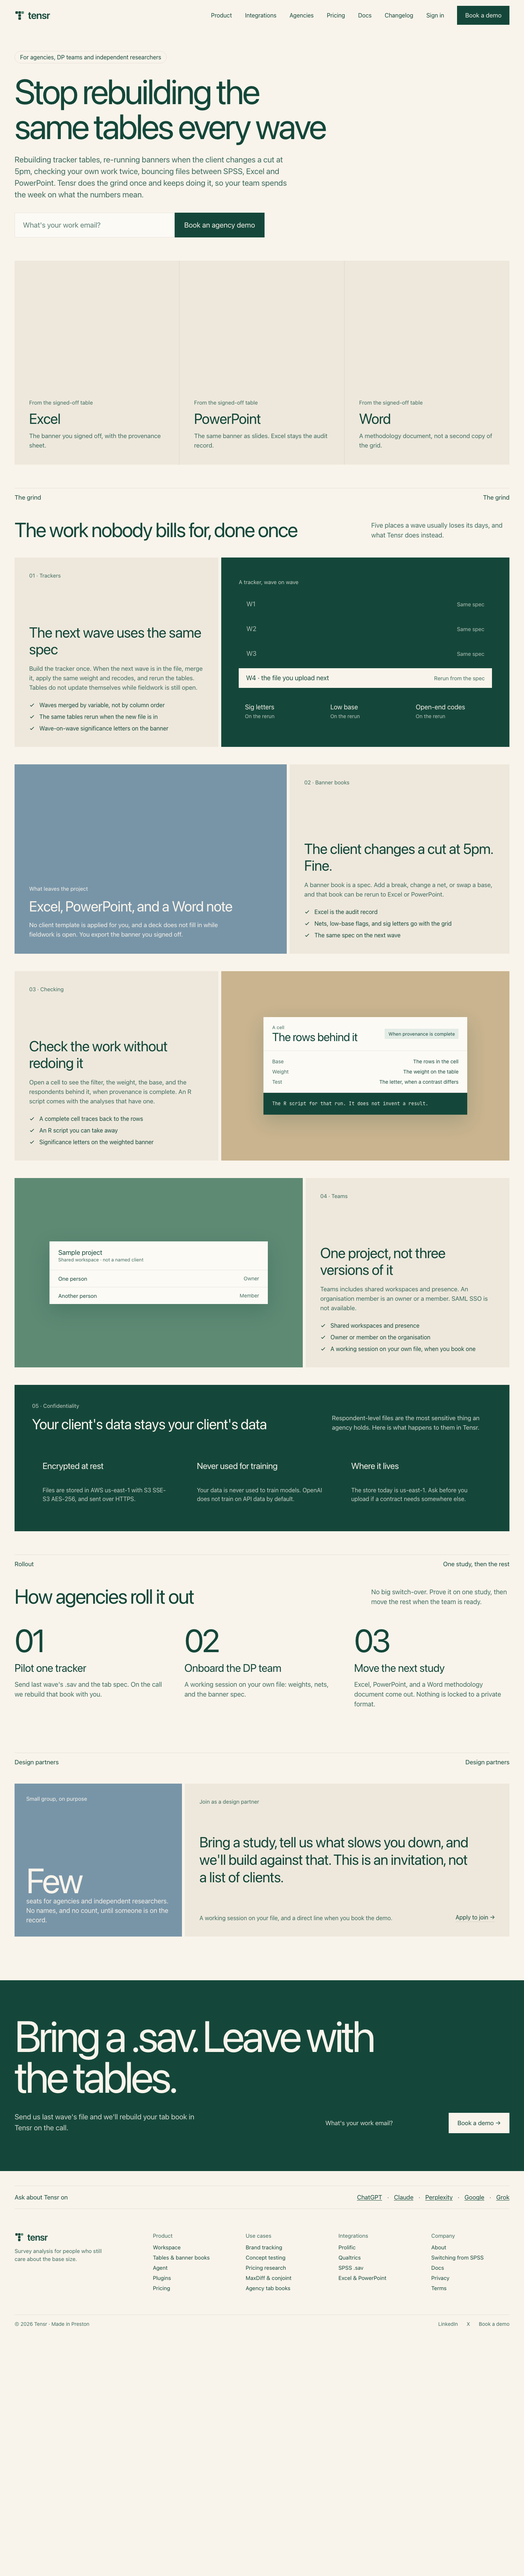
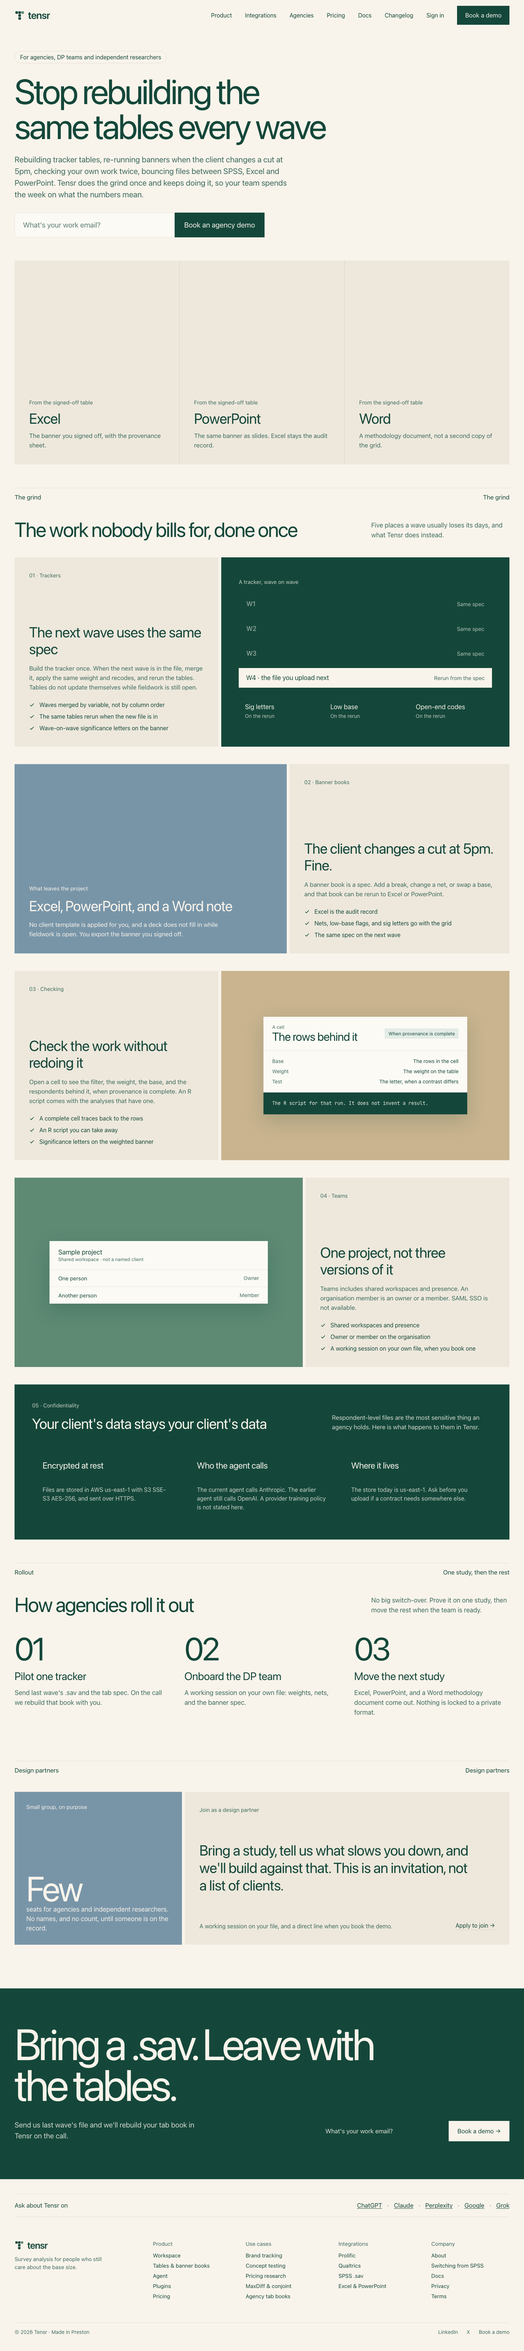
Limit the security page to claims the stack actually supports.

diff --git a/app/security/page.tsx b/app/security/page.tsx
@@ -1,19 +1,91 @@
 import type { Metadata } from 'next';
-import { PaperPage } from '@/components/paper/chrome';
+import Link from 'next/link';
+import { PaperShell, SectionRule } from '@/components/paper/shell';
 
-export const metadata: Metadata = { title: 'Security' };
+export const metadata: Metadata = {
+  title: { absolute: "Your client's data stays your client's · Tensr" },
+};
+
+const blocks = [
+  {
+    kicker: 'Encryption',
+    title: 'S3 SSE-S3, not a customer key',
+    body: 'File, project, and plugin buckets use BucketEncryption.S3_MANAGED. That is Amazon S3-managed AES-256 (SSE-S3). It is not a customer-managed KMS key.',
+  },
+  {
+    kicker: 'Region',
+    title: 'AWS us-east-1',
+    body: 'The CDK app sets the pipeline stack to us-east-1. On-premises and a customer VPC are not in that stack.',
+  },
+  {
+    kicker: 'In transit',
+    title: 'HTTPS',
+    body: 'The API stack is an API Gateway HTTP API. Those endpoints are HTTPS.',
+  },
+  {
+    kicker: 'The agent',
+    title: 'Anthropic, and OpenAI where v1 still runs',
+    body: 'The v2 agent defaults to Anthropic at api.anthropic.com. The v1 agent defaults to api.openai.com. A no-training clause is not in the repo, so this page does not state one.',
+  },
+  {
+    kicker: 'Plugins',
+    title: 'No network from a plugin',
+    body: 'The plugin isolation note says network access is disabled. Manifests that ask for network are rejected. The executor Lambda is in private isolated subnets with no NAT and no internet route.',
+  },
+  {
+    kicker: 'Sign-in',
+    title: 'Not SAML',
+    body: 'Organisation roles in the API are owner or member. SAML SSO and SCIM are not in that role model, and this page does not claim them.',
+  },
+] as const;
 
 export default function SecurityPage() {
   return (
-    <PaperPage
-      title="Sign-in is a code, not a password."
-      lede="Email codes and Google, Microsoft, and GitHub sign-in go through Stytch. Datasets stay in your workspace. We do not publish a SOC report on this page."
-    >
-      <ul className="flex flex-col gap-3 text-[16px] leading-6">
-        <li>Session tokens are how the app calls the API.</li>
-        <li>A project member sees the files in that project.</li>
-        <li>Exports are downloaded from a signed link, one button per file.</li>
-      </ul>
-    </PaperPage>
+    <PaperShell>
+      <section className="flex flex-col gap-7 px-10 pb-16 pt-14">
+        <p className="w-fit rounded-[999px] border border-[#14473A] px-3.5 py-1.5 text-[16px] leading-5">Security</p>
+        <div className="flex items-end justify-between gap-10">
+          <div className="flex flex-col gap-7">
+            <h1 className="whitespace-pre-wrap text-[96px] leading-24 tracking-[-0.045em]">
+              Your client&apos;s data{'\n'}stays your client&apos;s
+            </h1>
+            <p className="w-180 text-[22px] leading-8 text-[#3D6A5E]">
+              What the stack and the plugin note actually say. Anything that is not in those sources is left off this page.
+            </p>
+          </div>
+          <dl className="w-90 shrink-0 border-t border-[#14473A]">
+            {[
+              ['At rest', 'SSE-S3 AES-256'],
+              ['Region', 'us-east-1'],
+              ['In transit', 'HTTPS'],
+              ['Plugin network', 'None'],
+            ].map(([label, value]) => (
+              <div key={label} className="flex justify-between border-b border-[#14473A33] py-3 text-[16px] leading-5">
+                <dt className="text-[#3D6A5E]">{label}</dt>
+                <dd>{value}</dd>
+              </div>
+            ))}
+          </dl>
+        </div>
+      </section>
+      <section className="flex flex-col gap-2 px-10 pb-24">
+        <SectionRule left="What is in the stack" right="Checked against the code" />
+        {blocks.map((block) => (
+          <article key={block.kicker} className="grid grid-cols-[280px_1fr] gap-10 border-t border-[#14473A] py-8">
+            <p className="text-[15px] leading-5 text-[#3D6A5E]">{block.kicker}</p>
+            <div>
+              <h2 className="text-[32px] leading-10 tracking-[-0.03em]">{block.title}</h2>
+              <p className="mt-3 max-w-[720px] text-[17px] leading-7 text-[#3D6A5E]">{block.body}</p>
+            </div>
+          </article>
+        ))}
+      </section>
+      <section className="flex flex-col gap-8 bg-[#14473A] px-10 pb-26 pt-24 text-[#F9F4EB]">
+        <h2 className="max-w-[900px] text-[72px] leading-none tracking-[-0.045em]">Questions from your client&apos;s IT team?</h2>
+        <Link href="mailto:help@tensr.xyz?subject=Security%20questions" className="w-fit bg-[#F9F4EB] px-6 py-4 text-[17px] leading-5.5 text-[#14473A]">
+          Email help@tensr.xyz
+        </Link>
+      </section>
+    </PaperShell>
   );
 }

diff --git a/components/paper/agencies.tsx b/components/paper/agencies.tsx
@@ -230,7 +230,7 @@ export function AgenciesPage() {
           <div className="flex gap-2">
             {[
               ['Encrypted at rest', 'Files are stored in AWS us-east-1 with S3 SSE-S3 AES-256, and sent over HTTPS.'],
-              ['Never used for training', 'Your data is never used to train models. OpenAI does not train on API data by default.'],
+              ['Who the agent calls', 'The current agent calls Anthropic. The earlier agent still calls OpenAI. A provider training policy is not stated here.'],
               ['Where it lives', 'The store today is us-east-1. Ask before you upload if a contract needs somewhere else.'],
             ].map(([title, body]) => (
               <div key={title} className="flex grow basis-0 flex-col gap-10 border border-[#F9F4EB33] p-7">
